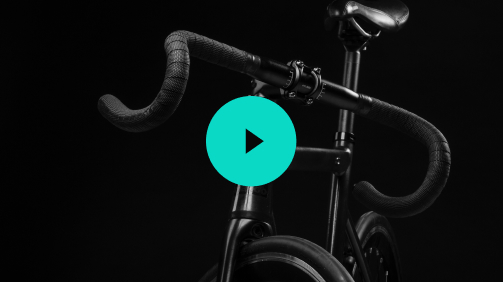
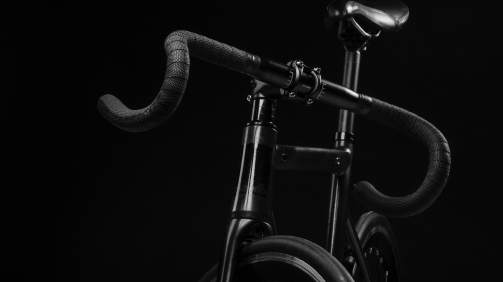
верстка блока видео

Changed region(s): [[0.3877, 0.3404, 0.5964, 0.6809]]

diff --git a/build/css/style.min.css b/build/css/style.min.css
@@ -1,4 +1,4 @@
 @font-face{font-family:"Open Sans";font-style:light;font-weight:300;font-display:swap;src:url(../fonts/OpenSans-Light.woff2) format("woff2"),url(../fonts/OpenSans-Light.woff) format("woff")}@font-face{font-family:"Open Sans";font-style:normal;font-weight:400;font-display:swap;src:url(../fonts/OpenSans-Regular.woff2) format("woff2"),url(../fonts/OpenSans-Regular.woff) format("woff")}@font-face{font-family:"Open Sans";font-style:normal;font-weight:600;font-display:swap;src:url(../fonts/OpenSans-SemiBold.woff2) format("woff2"),url(../fonts/OpenSans-SemiBold.woff) format("woff")}@font-face{font-family:"Open Sans";font-style:bold;font-weight:700;font-display:swap;src:url(../fonts/OpenSans-Bold.woff2) format("woff2"),url(../fonts/OpenSans-Bold.woff) format("woff")}
 /*! normalize.css v8.0.1 | MIT License | github.com/necolas/normalize.css */
-html{line-height:1.15;-webkit-text-size-adjust:100%}body{margin:0}details,main{display:block}h1{font-size:2em;margin:.67em 0}hr{box-sizing:content-box;height:0;overflow:visible}code,kbd,pre,samp{font-family:monospace,monospace;font-size:1em}a{background-color:transparent;text-decoration:none}abbr[title]{border-bottom:none;-webkit-text-decoration:underline dotted;text-decoration:underline dotted}b,strong{font-weight:bolder}small{font-size:80%}sub,sup{font-size:75%;line-height:0;position:relative;vertical-align:baseline}sub{bottom:-.25em}sup{top:-.5em}img{border-style:none;max-width:100%;height:auto;vertical-align:middle}button,input,optgroup,select,textarea{font-family:inherit;font-size:100%;line-height:1.15;margin:0}button,input{overflow:visible}button,select{text-transform:none}[type=button],[type=reset],[type=submit],button{-webkit-appearance:button}[type=button]::-moz-focus-inner,[type=reset]::-moz-focus-inner,[type=submit]::-moz-focus-inner,button::-moz-focus-inner{border-style:none;padding:0}[type=button]:-moz-focusring,[type=reset]:-moz-focusring,[type=submit]:-moz-focusring,button:-moz-focusring{outline:1px dotted ButtonText}fieldset{padding:.35em .75em .625em}legend{color:inherit;display:table;max-width:100%;white-space:normal}progress{vertical-align:baseline}textarea{overflow:auto}[type=checkbox],[type=radio],legend{box-sizing:border-box;padding:0}[type=number]::-webkit-inner-spin-button,[type=number]::-webkit-outer-spin-button{height:auto}[type=search]{-webkit-appearance:textfield;outline-offset:-2px}[type=search]::-webkit-search-decoration{-webkit-appearance:none}::-webkit-file-upload-button{-webkit-appearance:button;font:inherit}summary{display:list-item}[hidden],template{display:none}:root{--transparent:transparent;--black:#000000;--darkness:#1f1f1f;--background:#131314;--dark:#1c1c1c;--braun:#48494d;--white-02:rgba(255, 255, 255, 0.2);--black-05:rgba(0, 0, 0, 0.5);--black-07:rgba(0, 0, 0, 0.7);--gray-02:rgba(20, 21, 23, 0.2);--gray-05:rgba(44, 46, 63, 0.5);--white:#ffffff;--gray:#f6f6f6;--gray-light:#c9ccd4;--background-light:#f6f7f9;--aqua:#0ad9c6}*,::after,::before{box-sizing:border-box}.container{max-width:1440px;min-width:320px;margin:0 auto;padding-left:97px;padding-right:97px}@media (max-width:1023px){.container{padding-left:35px;padding-right:35px}}@media (max-width:767px){.container{padding-left:15px;padding-right:15px}}.visually-hidden{position:absolute;width:1px;height:1px;margin:-1px;border:0;padding:0;white-space:nowrap;-webkit-clip-path:inset(100%);clip-path:inset(100%);clip:rect(0 0 0 0);overflow:hidden}.list{margin:0;padding:0;list-style:none}.title{font-weight:600;font-size:30px;line-height:30px;letter-spacing:-.005em;color:var(--darkness)}@media (max-width:1023px){.title{font-size:24px;line-height:30px}}.text,.types-bicycles__item figure{margin:0}.page{font-family:"Open Sans","Arial",sans-serif;scroll-behavior:smooth}.page__body{display:grid;grid-template-rows:auto 1fr auto;height:100vh;margin:0}.header{position:relative;min-height:825px;letter-spacing:-.005em;color:var(--white)}@media (max-width:1023px){.header{min-height:675px}}@media (max-width:767px){.header{min-height:695px}}.header::after{position:absolute;content:"";top:0;z-index:-1;width:100%;height:825px;background-color:var(--background);background-image:url(../img/banner-bike-desktop.jpg);background-repeat:no-repeat;background-position:center center;background-size:cover}@media (-webkit-min-device-pixel-ratio:2),(min-resolution:2dppx){.header::after{background-image:url(../img/banner-bike-desktop@2x.jpg)}}@media (max-width:1023px){.header::after{height:340px;background-image:url(../img/banner-bike-tablet.jpg)}}@media (max-width:1023px) and (-webkit-min-device-pixel-ratio:2),(max-width:1023px) and (min-resolution:2dppx){.header::after{background-image:url(../img/banner-bike-tablet@2x.jpg)}}@media (max-width:767px){.header::after{height:390px;background-image:url(../img/banner-bike-mobile.jpg)}}@media (max-width:767px) and (-webkit-min-device-pixel-ratio:2),(max-width:767px) and (min-resolution:2dppx){.header::after{background-image:url(../img/banner-bike-mobile@2x.jpg)}}.navigation{display:flex;justify-content:center;min-height:62px}@media (max-width:1023px){.navigation{min-height:50px}.navigation--open{position:fixed;top:0;left:0;z-index:5;padding-top:100px;width:100vw;height:100vh;overflow-y:auto;background-color:var(--white)}}.navigation__toggle{display:none}@media (max-width:1023px){.navigation__toggle{position:absolute;top:0;right:0;display:block;width:50px;height:50px;z-index:6;padding:0;background-color:var(--aqua);cursor:pointer;border:0}}.navigation--close .navigation__toggle::before{content:"";position:absolute;top:18px;right:12px;width:23px;height:1px;background-color:var(--black);box-shadow:0 6px 0 0 var(--black),0 12px 0 0 var(--black)}@media (max-width:767px){.navigation--close .navigation__toggle::before{right:13px}}.navigation--close .navigation__toggle:active::before{background-color:fade(var(--black),30%);box-shadow:0 6px 0 0 fade(var(--black),30%),0 12px 0 0 fade(var(--black),30%)}.navigation--open .navigation__toggle{background-color:var(--white)}.navigation--open .navigation__toggle::after,.navigation--open .navigation__toggle::before{content:"";position:absolute;top:20px;right:10px;width:30px;height:1px;background-color:var(--gray-02)}@media (max-width:767px){.navigation--open .navigation__toggle::after,.navigation--open .navigation__toggle::before{right:8px}}.navigation--open .navigation__toggle::before{transform:rotate(45deg)}.navigation--open .navigation__toggle::after{transform:rotate(-45deg)}@media (max-width:1023px){.navigation--close .navigation__list{display:none}}.navigation--nojs .navigation__toggle,.navigation__item::after{display:none}@media (max-width:1023px){.navigation--nojs{flex-direction:column;background-color:var(--white)}.navigation--nojs .navigation__list{display:flex;padding-top:30px}}.navigation__list{display:flex;flex-wrap:wrap;padding:21px 20px 10px;border-bottom:1px solid var(--white-02)}@media (max-width:1023px){.navigation__list{padding:0;width:100%;height:-webkit-fit-content;height:-moz-fit-content;height:fit-content}}.navigation__item:not(:last-child){margin-right:135px}@media (max-width:1023px){.navigation__item{position:relative;display:flex;align-items:center;margin-bottom:30px;padding-left:16px;padding-right:16px;width:100%;height:60px;background-color:var(--gray)}.navigation__item:not(:last-child){margin-right:0}}@media (max-width:1023px){.navigation__item::after{content:"";position:absolute;top:26px;right:25px;display:block;width:9px;height:9px;border-bottom:2px solid var(--gray-05);border-right:2px solid var(--gray-05);transform:rotate(315deg)}}.navigation__item a{font-weight:300;font-size:16px;line-height:32px;color:var(--white);opacity:.7}@media (max-width:1023px){.navigation__item a{font-weight:400;font-size:20px;line-height:140%;color:var(--braun);opacity:1}}.promo{padding-top:255px}@media (max-width:1023px){.promo{padding-top:54px}}@media (max-width:767px){.promo{padding-top:40px}}.promo__container{display:flex;justify-content:space-between;max-width:1024px;padding-left:70px;padding-right:70px}@media (max-width:1023px){.promo__container{flex-direction:column;align-items:center;padding-left:150px;padding-right:150px}}@media (max-width:767px){.promo__container{padding-left:16px;padding-right:16px}}.promo__block-text{width:400px;margin-right:15px}@media (max-width:1023px){.promo__block-text{width:auto;margin-right:0;margin-bottom:150px;text-align:center}}@media (max-width:767px){.promo__block-text{margin-bottom:140px;min-height:200px}}.promo__block-text a{display:flex}@media (max-width:1023px){.promo__block-text a{position:absolute;top:25px;left:21px}}.promo__block-text h1{margin-top:30px;font-weight:700;font-size:46px;line-height:64px}@media (max-width:1023px){.promo__block-text h1{font-size:30px;line-height:42px}}.promo__block-text p{margin-top:24px;font-weight:300;font-size:20px;line-height:32px;opacity:.8}@media (max-width:1023px){.promo__block-text p{margin-top:20px;font-size:18px;line-height:32px}}.promo__block-form{width:327px;margin-left:15px}@media (max-width:1023px){.promo__block-form{width:auto;margin-left:0;padding-left:70px;padding-right:70px}}@media (max-width:767px){.promo__block-form{padding-left:0;padding-right:0}}.promo__block-form p{margin-bottom:20px;font-weight:600;font-size:17px;line-height:28px;-moz-text-align-last:center;text-align-last:center}@media (max-width:1023px){.promo__block-form p{font-size:18px;line-height:28px;text-align:center;color:var(--black)}}.form input{margin-bottom:20px;padding:13px 30px;width:100%;height:48px;font-size:15px;line-height:24px;color:var(--dark);background-color:var(--white);border:1px solid var(--gray-light);border-radius:6px}.form input::-moz-placeholder{opacity:.5}.form input::placeholder{opacity:.5}.form button{width:100%;min-height:51px;font-weight:600;font-size:15px;line-height:21px;color:var(--black);background-color:var(--aqua);border-radius:6px;border:0}.footer{padding-top:75px;padding-bottom:98px}@media (max-width:1023px){.footer{padding-bottom:50px}}.footer__container{display:flex;flex-direction:column;align-items:center}@media (max-width:767px){.footer__container{padding-left:0;padding-right:0}}.footer h2{margin-bottom:20px}.footer p{margin-bottom:42px;padding-right:335px;padding-left:335px;font-size:17px;line-height:31px;text-align:center;color:var(--black-07)}@media (max-width:1200px){.footer p{padding-right:35px;padding-left:35px}}.footer__map{width:957px;height:530px;background-image:url(../img/map-desktop.png)}@media (-webkit-min-device-pixel-ratio:2),(min-resolution:2dppx){.footer__map{background-image:url(../img/map-desktop@2x.png)}}@media (max-width:1023px){.footer__map{width:100%;height:545px;background-image:url(../img/map-tablet.png)}}@media (max-width:1023px) and (-webkit-min-device-pixel-ratio:2),(max-width:1023px) and (min-resolution:2dppx){.footer__map{background-image:url(../img/map-tablet@2x.png)}}@media (max-width:767px){.footer__map{height:250px;background-image:url(../img/map-mobile.png)}}@media (max-width:767px) and (-webkit-min-device-pixel-ratio:2),(max-width:767px) and (min-resolution:2dppx){.footer__map{background-image:url(../img/map-mobile@2x.png)}}.contacts{display:flex;margin-top:40px}@media (max-width:1023px){.contacts{margin-top:20px}}@media (max-width:767px){.contacts{flex-direction:column;align-items:center}}.contacts__item:not(:last-child){margin-right:90px}@media (max-width:767px){.contacts__item:not(:last-child){margin-right:0;margin-bottom:22px}}.contacts__link{display:flex;align-items:center;font-size:16px;color:var(--black-05)}.contacts__link,.contacts__link--email{line-height:22px}.contacts__link svg{margin-right:15px;color:var(--aqua)}.about{padding-top:150px;padding-bottom:130px;text-align:center}@media (max-width:1023px){.about h2{line-height:41px}}.about__list{display:flex;justify-content:center;flex-wrap:wrap;margin-top:30px;counter-reset:about-list}.about__list li,.types-bicycles__item figcaption{font-size:22px;line-height:34px;letter-spacing:-.5px;color:var(--black)}.about__list li{display:flex;flex-direction:column;row-gap:15px;margin:20px;width:263px}@media (max-width:1023px){.about__list li{margin:15px}}@media (max-width:767px){.about__list li{margin:17px 10px;font-size:18px}}.about__list li::before{counter-increment:about-list;content:"0" counter(about-list);font-weight:700;font-size:28px;line-height:38px;letter-spacing:-1.2px;color:var(--aqua)}.types-bicycles{padding-top:153px;padding-bottom:150px;background-color:var(--background-light)}@media (max-width:1023px){.types-bicycles{padding-top:50px;padding-bottom:70px}}@media (max-width:767px){.types-bicycles{padding-bottom:50px}}.types-bicycles h2{margin-bottom:25px;text-align:center}.types-bicycles__list{display:flex;justify-content:center;flex-wrap:wrap}.types-bicycles__item{position:relative;z-index:1;margin:25px}@media (max-width:1370px){.types-bicycles__item{width:27%}}@media (max-width:1023px){.types-bicycles__item{margin:25px;width:auto}}.types-bicycles__item::before{position:absolute;content:""}.types-bicycles__item--road{padding-top:10px}.types-bicycles__item--road::before{top:175px;left:-60px;z-index:-1;width:180px;height:180px;border:27px solid var(--aqua);border-radius:50%}@media (max-width:1023px){.types-bicycles__item--road{padding-top:0}.types-bicycles__item--road::before{top:initial;bottom:28px;left:-38px;width:127px;height:127px;border-width:18px}}@media (max-width:767px){.types-bicycles__item--road::before{left:-32px}}.types-bicycles__item--mountain{padding-top:39px}.types-bicycles__item--mountain::after,.types-bicycles__item--mountain::before{width:47px;height:47px;border:8px solid var(--aqua)}.types-bicycles__item--mountain::before{top:20px;left:-20px}.types-bicycles__item--mountain::after{position:absolute;content:"";bottom:30px;right:-20px}@media (max-width:1023px){.types-bicycles__item--mountain{padding-top:0}.types-bicycles__item--mountain::after,.types-bicycles__item--mountain::before{display:none}}.types-bicycles__item--children::before{top:-35px;right:-35px;width:95px;height:95px;border:17px solid var(--aqua);border-radius:50%}@media (max-width:1023px){.types-bicycles__item--children::before{top:-22px;right:-23px;width:68px;height:68px;border-width:13px}}.types-bicycles__item img{width:342px;border-radius:10px}@media (max-width:1200px){.types-bicycles__item img{width:270px;height:300px;-o-object-fit:cover;object-fit:cover}}.types-bicycles__item figcaption{margin-top:20px;font-weight:600;text-align:center}
+html{line-height:1.15;-webkit-text-size-adjust:100%}body{margin:0}details,main{display:block}h1{font-size:2em;margin:.67em 0}hr{box-sizing:content-box;height:0;overflow:visible}code,kbd,pre,samp{font-family:monospace,monospace;font-size:1em}a{background-color:transparent;text-decoration:none}abbr[title]{border-bottom:none;-webkit-text-decoration:underline dotted;text-decoration:underline dotted}b,strong{font-weight:bolder}small{font-size:80%}sub,sup{font-size:75%;line-height:0;position:relative;vertical-align:baseline}sub{bottom:-.25em}sup{top:-.5em}img{border-style:none;max-width:100%;height:auto;vertical-align:middle}button,input,optgroup,select,textarea{font-family:inherit;font-size:100%;line-height:1.15;margin:0}button,input{overflow:visible}button,select{text-transform:none}[type=button],[type=reset],[type=submit],button{-webkit-appearance:button}[type=button]::-moz-focus-inner,[type=reset]::-moz-focus-inner,[type=submit]::-moz-focus-inner,button::-moz-focus-inner{border-style:none;padding:0}[type=button]:-moz-focusring,[type=reset]:-moz-focusring,[type=submit]:-moz-focusring,button:-moz-focusring{outline:1px dotted ButtonText}fieldset{padding:.35em .75em .625em}legend{color:inherit;display:table;max-width:100%;white-space:normal}progress{vertical-align:baseline}textarea{overflow:auto}[type=checkbox],[type=radio],legend{box-sizing:border-box;padding:0}[type=number]::-webkit-inner-spin-button,[type=number]::-webkit-outer-spin-button{height:auto}[type=search]{-webkit-appearance:textfield;outline-offset:-2px}[type=search]::-webkit-search-decoration{-webkit-appearance:none}::-webkit-file-upload-button{-webkit-appearance:button;font:inherit}summary{display:list-item}[hidden],template{display:none}:root{--transparent:transparent;--black:#000000;--darkness:#1f1f1f;--background:#131314;--dark:#1c1c1c;--braun:#48494d;--white-02:rgba(255, 255, 255, 0.2);--black-05:rgba(0, 0, 0, 0.5);--black-07:rgba(0, 0, 0, 0.7);--gray-02:rgba(20, 21, 23, 0.2);--gray-05:rgba(44, 46, 63, 0.5);--white:#ffffff;--gray:#f6f6f6;--gray-light:#c9ccd4;--background-light:#f6f7f9;--aqua:#0ad9c6}*,::after,::before{box-sizing:border-box}.container{max-width:1440px;min-width:320px;margin:0 auto;padding-left:97px;padding-right:97px}@media (max-width:1023px){.container{padding-left:35px;padding-right:35px}}@media (max-width:767px){.container{padding-left:15px;padding-right:15px}}.visually-hidden{position:absolute;width:1px;height:1px;margin:-1px;border:0;padding:0;white-space:nowrap;-webkit-clip-path:inset(100%);clip-path:inset(100%);clip:rect(0 0 0 0);overflow:hidden}.list{margin:0;padding:0;list-style:none}.title{font-weight:600;font-size:30px;line-height:30px;letter-spacing:-.005em;color:var(--darkness)}@media (max-width:1023px){.title{font-size:24px;line-height:30px}}.text,.types-bicycles__item figure{margin:0}.page{font-family:"Open Sans","Arial",sans-serif;scroll-behavior:smooth}.page__body{display:grid;grid-template-rows:auto 1fr auto;height:100vh;margin:0}.header{position:relative;min-height:825px;letter-spacing:-.005em;color:var(--white)}@media (max-width:1023px){.header{min-height:675px}}@media (max-width:767px){.header{min-height:695px}}.header::after{position:absolute;content:"";top:0;z-index:-1;width:100%;height:825px;background-color:var(--background);background-image:url(../img/banner-bike-desktop.jpg);background-repeat:no-repeat;background-position:center center;background-size:cover}@media (-webkit-min-device-pixel-ratio:2),(min-resolution:2dppx){.header::after{background-image:url(../img/banner-bike-desktop@2x.jpg)}}@media (max-width:1023px){.header::after{height:340px;background-image:url(../img/banner-bike-tablet.jpg)}}@media (max-width:1023px) and (-webkit-min-device-pixel-ratio:2),(max-width:1023px) and (min-resolution:2dppx){.header::after{background-image:url(../img/banner-bike-tablet@2x.jpg)}}@media (max-width:767px){.header::after{height:390px;background-image:url(../img/banner-bike-mobile.jpg)}}@media (max-width:767px) and (-webkit-min-device-pixel-ratio:2),(max-width:767px) and (min-resolution:2dppx){.header::after{background-image:url(../img/banner-bike-mobile@2x.jpg)}}.navigation{display:flex;justify-content:center;min-height:62px}@media (max-width:1023px){.navigation{min-height:50px}.navigation--open{position:fixed;top:0;left:0;z-index:5;padding-top:100px;width:100vw;height:100vh;overflow-y:auto;background-color:var(--white)}}.navigation__toggle{display:none}@media (max-width:1023px){.navigation__toggle{position:absolute;top:0;right:0;display:block;width:50px;height:50px;z-index:6;padding:0;background-color:var(--aqua);cursor:pointer;border:0}}.navigation--close .navigation__toggle::before{content:"";position:absolute;top:18px;right:12px;width:23px;height:1px;background-color:var(--black);box-shadow:0 6px 0 0 var(--black),0 12px 0 0 var(--black)}@media (max-width:767px){.navigation--close .navigation__toggle::before{right:13px}}.navigation--close .navigation__toggle:active::before{background-color:fade(var(--black),30%);box-shadow:0 6px 0 0 fade(var(--black),30%),0 12px 0 0 fade(var(--black),30%)}.navigation--open .navigation__toggle{background-color:var(--white)}.navigation--open .navigation__toggle::after,.navigation--open .navigation__toggle::before{content:"";position:absolute;top:20px;right:10px;width:30px;height:1px;background-color:var(--gray-02)}@media (max-width:767px){.navigation--open .navigation__toggle::after,.navigation--open .navigation__toggle::before{right:8px}}.navigation--open .navigation__toggle::before{transform:rotate(45deg)}.navigation--open .navigation__toggle::after{transform:rotate(-45deg)}@media (max-width:1023px){.navigation--close .navigation__list{display:none}}.navigation--nojs .navigation__toggle,.navigation__item::after{display:none}@media (max-width:1023px){.navigation--nojs{flex-direction:column;background-color:var(--white)}.navigation--nojs .navigation__list{display:flex;padding-top:30px}}.navigation__list{display:flex;flex-wrap:wrap;padding:21px 20px 10px;border-bottom:1px solid var(--white-02)}@media (max-width:1023px){.navigation__list{padding:0;width:100%;height:-webkit-fit-content;height:-moz-fit-content;height:fit-content}}.navigation__item:not(:last-child){margin-right:135px}@media (max-width:1023px){.navigation__item{position:relative;display:flex;align-items:center;margin-bottom:30px;padding-left:16px;padding-right:16px;width:100%;height:60px;background-color:var(--gray)}.navigation__item:not(:last-child){margin-right:0}}@media (max-width:1023px){.navigation__item::after{content:"";position:absolute;top:26px;right:25px;display:block;width:9px;height:9px;border-bottom:2px solid var(--gray-05);border-right:2px solid var(--gray-05);transform:rotate(315deg)}}.navigation__item a{font-weight:300;font-size:16px;line-height:32px;color:var(--white);opacity:.7}@media (max-width:1023px){.navigation__item a{font-weight:400;font-size:20px;line-height:140%;color:var(--braun);opacity:1}}.promo{padding-top:255px}@media (max-width:1023px){.promo{padding-top:54px}}@media (max-width:767px){.promo{padding-top:40px}}.promo__container{display:flex;justify-content:space-between;max-width:1024px;padding-left:70px;padding-right:70px}@media (max-width:1023px){.promo__container{flex-direction:column;align-items:center;padding-left:150px;padding-right:150px}}@media (max-width:767px){.promo__container{padding-left:16px;padding-right:16px}}.promo__block-text{width:400px;margin-right:15px}@media (max-width:1023px){.promo__block-text{width:auto;margin-right:0;margin-bottom:150px;text-align:center}}@media (max-width:767px){.promo__block-text{margin-bottom:140px;min-height:200px}}.promo__block-text a{display:flex}@media (max-width:1023px){.promo__block-text a{position:absolute;top:25px;left:21px}}.promo__block-text h1{margin-top:30px;font-weight:700;font-size:46px;line-height:64px}@media (max-width:1023px){.promo__block-text h1{font-size:30px;line-height:42px}}.promo__block-text p{margin-top:24px;font-weight:300;font-size:20px;line-height:32px;opacity:.8}@media (max-width:1023px){.promo__block-text p{margin-top:20px;font-size:18px;line-height:32px}}.promo__block-form{width:327px;margin-left:15px}@media (max-width:1023px){.promo__block-form{width:auto;margin-left:0;padding-left:70px;padding-right:70px}}@media (max-width:767px){.promo__block-form{padding-left:0;padding-right:0}}.promo__block-form p{margin-bottom:20px;font-weight:600;font-size:17px;line-height:28px;-moz-text-align-last:center;text-align-last:center}@media (max-width:1023px){.promo__block-form p{font-size:18px;line-height:28px;text-align:center;color:var(--black)}}.form input{margin-bottom:20px;padding:13px 30px;width:100%;height:48px;font-size:15px;line-height:24px;color:var(--dark);background-color:var(--white);border:1px solid var(--gray-light);border-radius:6px}.form input::-moz-placeholder{opacity:.5}.form input::placeholder{opacity:.5}.form button{width:100%;min-height:51px;font-weight:600;font-size:15px;line-height:21px;color:var(--black);background-color:var(--aqua);border-radius:6px;border:0}.footer{padding-top:75px;padding-bottom:98px}@media (max-width:1023px){.footer{padding-bottom:50px}}.footer__container{display:flex;flex-direction:column;align-items:center}@media (max-width:767px){.footer__container{padding-left:0;padding-right:0}}.footer h2{margin-bottom:20px}.footer p{margin-bottom:42px;padding-right:335px;padding-left:335px;font-size:17px;line-height:31px;text-align:center;color:var(--black-07)}@media (max-width:1200px){.footer p{padding-right:35px;padding-left:35px}}.footer__map{width:957px;height:530px;background-image:url(../img/map-desktop.png)}@media (-webkit-min-device-pixel-ratio:2),(min-resolution:2dppx){.footer__map{background-image:url(../img/map-desktop@2x.png)}}@media (max-width:1023px){.footer__map{width:100%;height:545px;background-image:url(../img/map-tablet.png)}}@media (max-width:1023px) and (-webkit-min-device-pixel-ratio:2),(max-width:1023px) and (min-resolution:2dppx){.footer__map{background-image:url(../img/map-tablet@2x.png)}}@media (max-width:767px){.footer__map{height:250px;background-image:url(../img/map-mobile.png)}}@media (max-width:767px) and (-webkit-min-device-pixel-ratio:2),(max-width:767px) and (min-resolution:2dppx){.footer__map{background-image:url(../img/map-mobile@2x.png)}}.contacts{display:flex;margin-top:40px}@media (max-width:1023px){.contacts{margin-top:20px}}@media (max-width:767px){.contacts{flex-direction:column;align-items:center}}.contacts__item:not(:last-child){margin-right:90px}@media (max-width:767px){.contacts__item:not(:last-child){margin-right:0;margin-bottom:22px}}.contacts__link{display:flex;align-items:center;font-size:16px;color:var(--black-05)}.contacts__link,.contacts__link--email{line-height:22px}.contacts__link svg{margin-right:15px;color:var(--aqua)}.about{padding-top:150px;padding-bottom:130px;text-align:center}@media (max-width:1023px){.about h2{line-height:41px}}.about__list{display:flex;justify-content:center;flex-wrap:wrap;margin-top:30px;counter-reset:about-list}.about__list li,.types-bicycles__item figcaption{font-size:22px;line-height:34px;letter-spacing:-.5px;color:var(--black)}.about__list li{display:flex;flex-direction:column;row-gap:15px;margin:20px;width:263px}@media (max-width:1023px){.about__list li{margin:15px}}@media (max-width:767px){.about__list li{margin:17px 10px;font-size:18px}}.about__list li::before{counter-increment:about-list;content:"0" counter(about-list);font-weight:700;font-size:28px;line-height:38px;letter-spacing:-1.2px;color:var(--aqua)}.types-bicycles{padding-top:153px;padding-bottom:150px;background-color:var(--background-light)}@media (max-width:1023px){.types-bicycles{padding-top:50px;padding-bottom:70px}}@media (max-width:767px){.types-bicycles{padding-bottom:50px}}.types-bicycles h2,.video p{margin-bottom:25px;text-align:center}.types-bicycles__list{display:flex;justify-content:center;flex-wrap:wrap}.types-bicycles__item{position:relative;z-index:1;margin:25px}@media (max-width:1370px){.types-bicycles__item{width:27%}}@media (max-width:1023px){.types-bicycles__item{margin:25px;width:auto}}.types-bicycles__item::before{position:absolute;content:""}.types-bicycles__item--road{padding-top:10px}.types-bicycles__item--road::before{top:175px;left:-60px;z-index:-1;width:180px;height:180px;border:27px solid var(--aqua);border-radius:50%}@media (max-width:1023px){.types-bicycles__item--road{padding-top:0}.types-bicycles__item--road::before{top:initial;bottom:28px;left:-38px;width:127px;height:127px;border-width:18px}}@media (max-width:767px){.types-bicycles__item--road::before{left:-32px}}.types-bicycles__item--mountain{padding-top:39px}.types-bicycles__item--mountain::after,.types-bicycles__item--mountain::before{width:47px;height:47px;border:8px solid var(--aqua)}.types-bicycles__item--mountain::before{top:20px;left:-20px}.types-bicycles__item--mountain::after{position:absolute;content:"";bottom:30px;right:-20px}@media (max-width:1023px){.types-bicycles__item--mountain{padding-top:0}.types-bicycles__item--mountain::after,.types-bicycles__item--mountain::before{display:none}}.types-bicycles__item--children::before{top:-35px;right:-35px;width:95px;height:95px;border:17px solid var(--aqua);border-radius:50%}@media (max-width:1023px){.types-bicycles__item--children::before{top:-22px;right:-23px;width:68px;height:68px;border-width:13px}}.types-bicycles__item img{width:342px;border-radius:10px}@media (max-width:1200px){.types-bicycles__item img{width:270px;height:300px;-o-object-fit:cover;object-fit:cover}}.types-bicycles__item figcaption{margin-top:20px;font-weight:600;text-align:center}.video{padding-top:120px;padding-bottom:75px;letter-spacing:-.005em;color:var(--white);background-image:linear-gradient(var(--background) 80%,var(--white) 20%)}@media (max-width:1023px){.video{padding-top:70px;padding-bottom:35px}}.video__container{display:flex;flex-direction:column;align-items:center}.video h2{margin-bottom:20px;color:inherit}.video p{margin-bottom:50px;padding-left:420px;padding-right:420px;font-weight:300;font-size:16px;line-height:28px;opacity:.7}@media (max-width:1370px){.video p{padding-left:110px;padding-right:110px}}@media (max-width:1200px){.video p{padding-left:260px;padding-right:260px}}@media (max-width:1023px){.video p{padding-left:170px;padding-right:170px}}@media (max-width:767px){.video p{padding-left:0;padding-right:0}}.video__wrapper{position:relative;width:929px;height:522px}@media (max-width:1023px){.video__wrapper{width:503px;height:282px}}@media (max-width:767px){.video__wrapper{width:288px;height:161px}}.video__wrapper video{width:100%;height:100%;background-color:var(--black);background-image:url(../img/video-preview-desktop.jpg);background-repeat:no-repeat;background-position:center center;background-size:cover}@media (-webkit-min-device-pixel-ratio:2),(min-resolution:2dppx){.video__wrapper video{background-image:url(../img/video-preview-desktop@2x.jpg)}}.video__wrapper button{position:absolute;top:50%;left:50%;z-index:2;width:65px;height:65px;font-size:26px;transform:translate(-50%,-50%) scale(1);background-color:var(--aqua);border-radius:50%;border:0;cursor:pointer}@media (max-width:1023px){.video__wrapper button{width:90px;height:90px;font-size:45px}}@media (max-width:767px){.video__wrapper button{width:65px;height:65px;font-size:26px}}.video__wrapper button:hover{transform:translate(-50%,-50%) scale(1.3)}
 /*# sourceMappingURL=style.min.css.map */

diff --git a/build/css/style.css b/build/css/style.css
@@ -729,6 +729,7 @@ img {
   padding-bottom: 98px; }
   @media (max-width: 1023px) {
     .footer {
+      padding-bottom: 35px;
       padding-bottom: 50px; } }
 
 .footer__container {
@@ -964,3 +965,100 @@ img {
   letter-spacing: -0.5px;
   text-align: center;
   color: var(--black); }
+
+.video {
+  padding-top: 120px;
+  padding-bottom: 75px;
+  letter-spacing: -0.005em;
+  color: var(--white);
+  background-image: linear-gradient(var(--background) 80%, var(--white) 20%); }
+  @media (max-width: 1023px) {
+    .video {
+      padding-top: 70px;
+      padding-bottom: 35px; } }
+
+.video__container {
+  display: flex;
+  flex-direction: column;
+  align-items: center; }
+
+.video h2 {
+  margin-bottom: 20px;
+  color: inherit; }
+
+.video p {
+  margin-bottom: 50px;
+  padding-left: 420px;
+  padding-right: 420px;
+  text-align: center;
+  font-weight: 300;
+  font-size: 16px;
+  line-height: 28px;
+  opacity: 0.7; }
+  @media (max-width: 1370px) {
+    .video p {
+      padding-left: 110px;
+      padding-right: 110px; } }
+  @media (max-width: 1200px) {
+    .video p {
+      padding-left: 260px;
+      padding-right: 260px; } }
+  @media (max-width: 1023px) {
+    .video p {
+      padding-left: 170px;
+      padding-right: 170px; } }
+  @media (max-width: 767px) {
+    .video p {
+      padding-left: 0;
+      padding-right: 0; } }
+
+.video__wrapper {
+  position: relative;
+  width: 929px;
+  height: 522px; }
+  @media (max-width: 1023px) {
+    .video__wrapper {
+      width: 503px;
+      height: 282px; } }
+  @media (max-width: 767px) {
+    .video__wrapper {
+      width: 288px;
+      height: 161px; } }
+
+.video__wrapper video {
+  width: 100%;
+  height: 100%;
+  background-color: var(--black);
+  background-image: url("../img/video-preview-desktop.jpg");
+  background-repeat: no-repeat;
+  background-position: center center;
+  background-size: cover; }
+  @media (min-resolution: 2dppx) {
+    .video__wrapper video {
+      background-image: url("../img/video-preview-desktop@2x.jpg"); } }
+
+.video__wrapper button {
+  position: absolute;
+  top: 50%;
+  left: 50%;
+  z-index: 2;
+  width: 65px;
+  height: 65px;
+  font-size: 26px;
+  transform: translate(-50%, -50%) scale(1);
+  background-color: var(--aqua);
+  border-radius: 50%;
+  border: none;
+  cursor: pointer; }
+  @media (max-width: 1023px) {
+    .video__wrapper button {
+      width: 90px;
+      height: 90px;
+      font-size: 45px; } }
+  @media (max-width: 767px) {
+    .video__wrapper button {
+      width: 65px;
+      height: 65px;
+      font-size: 26px; } }
+  .video__wrapper button:hover {
+    transform: translate(-50%, -50%) scale(1.3); }

diff --git a/source/sass/blocks/video.scss b/source/sass/blocks/video.scss
@@ -1,0 +1,128 @@
+.video {
+  padding-top: 120px;
+  padding-bottom: 75px;
+
+  letter-spacing: -0.005em;
+
+  color: var(--white);
+  background-image: linear-gradient(var(--background) 80%, var(--white) 20%);
+
+  @media (max-width: $max-tablet) {
+    padding-top: 70px;
+    padding-bottom: 35px;
+  }
+}
+
+.video__container {
+  display: flex;
+  flex-direction: column;
+  align-items: center;
+}
+
+.video h2 {
+  margin-bottom: 20px;
+
+  color: inherit;
+}
+
+.video p {
+  margin-bottom: 50px;
+  padding-left: 420px;
+  padding-right: 420px;
+
+  text-align: center;
+
+  font-weight: 300;
+  font-size: 16px;
+  line-height: 28px;
+
+  opacity: 0.7;
+
+  @media (max-width: $middle-desktop) {
+    padding-left: 110px;
+    padding-right: 110px;
+  }
+
+  @media (max-width: $desktop) {
+    padding-left: 260px;
+    padding-right: 260px;
+  }
+
+  @media (max-width: $max-tablet) {
+    padding-left: 170px;
+    padding-right: 170px;
+  }
+
+  @media (max-width: $max-mobile) {
+    padding-left: 0;
+    padding-right: 0;
+  }
+}
+
+.video__wrapper {
+  position: relative;
+  width: 929px;
+  height: 522px;
+
+  @media (max-width: $max-tablet) {
+    width: 503px;
+    height: 282px;
+  }
+
+  @media (max-width: $max-mobile) {
+    width: 288px;
+    height: 161px;
+  }
+}
+
+.video__wrapper video {
+  width: 100%;
+  height: 100%;
+
+  background-color: var(--black);
+  background-image: url("../img/video-preview-desktop.jpg");
+
+  background-repeat: no-repeat;
+  background-position: center center;
+  background-size: cover;
+
+  @media (min-resolution: $resolution) {
+    background-image: url("../img/video-preview-desktop@2x.jpg");
+  }
+}
+
+.video__wrapper button {
+  position: absolute;
+  top: 50%;
+  left: 50%;
+  z-index: 2;
+
+  width: 65px;
+  height: 65px;
+
+  font-size: 26px;
+
+  transform: translate(-50%, -50%) scale(1.0);
+  background-color: var(--aqua);
+  border-radius: 50%;
+  border: none;
+  cursor: pointer;
+
+  @media (max-width: $max-tablet) {
+    width: 90px;
+    height: 90px;
+
+    font-size: 45px;
+  }
+
+  @media (max-width: $max-mobile) {
+    width: 65px;
+    height: 65px;
+
+    font-size: 26px;
+  }
+
+  &:hover {
+    transform: translate(-50%, -50%) scale(1.3);
+  }
+}

diff --git a/build/index.html b/build/index.html
@@ -122,6 +122,17 @@
         </ul>
       </div>
     </section>
+
+    <section class="video">
+      <div class="container video__container">
+        <h2 class="title text">Видео про велосипеды</h2>
+        <p class="text">В этом видео мы подробно расскажем про особенности выбора велосипеда для себя.</p>
+        <div class="video__wrapper">
+          <video></video>
+          <button type="button" aria-label="Воспроизвести">⯈</button>
+        </div>
+      </div>
+    </section>
   </main>
 
   <footer class="footer">

diff --git a/source/index.html b/source/index.html
@@ -122,6 +122,17 @@
         </ul>
       </div>
     </section>
+
+    <section class="video">
+      <div class="container video__container">
+        <h2 class="title text">Видео про велосипеды</h2>
+        <p class="text">В этом видео мы подробно расскажем про особенности выбора велосипеда для себя.</p>
+        <div class="video__wrapper">
+          <video></video>
+          <button type="button" aria-label="Воспроизвести">⯈</button>
+        </div>
+      </div>
+    </section>
   </main>
 
   <footer class="footer">

diff --git a/source/sass/style.scss b/source/sass/style.scss
@@ -14,4 +14,4 @@
 @import "blocks/contacts.scss";
 @import "blocks/about.scss";
 @import "blocks/types-bicycles.scss";
-// @import "blocks";
+@import "blocks/video.scss";

diff --git a/source/sass/blocks/footer.scss b/source/sass/blocks/footer.scss
@@ -3,6 +3,7 @@
   padding-bottom: 98px;
 
   @media (max-width: $max-tablet) {
+    padding-bottom: 35px;
     padding-bottom: 50px;
   }
 }
